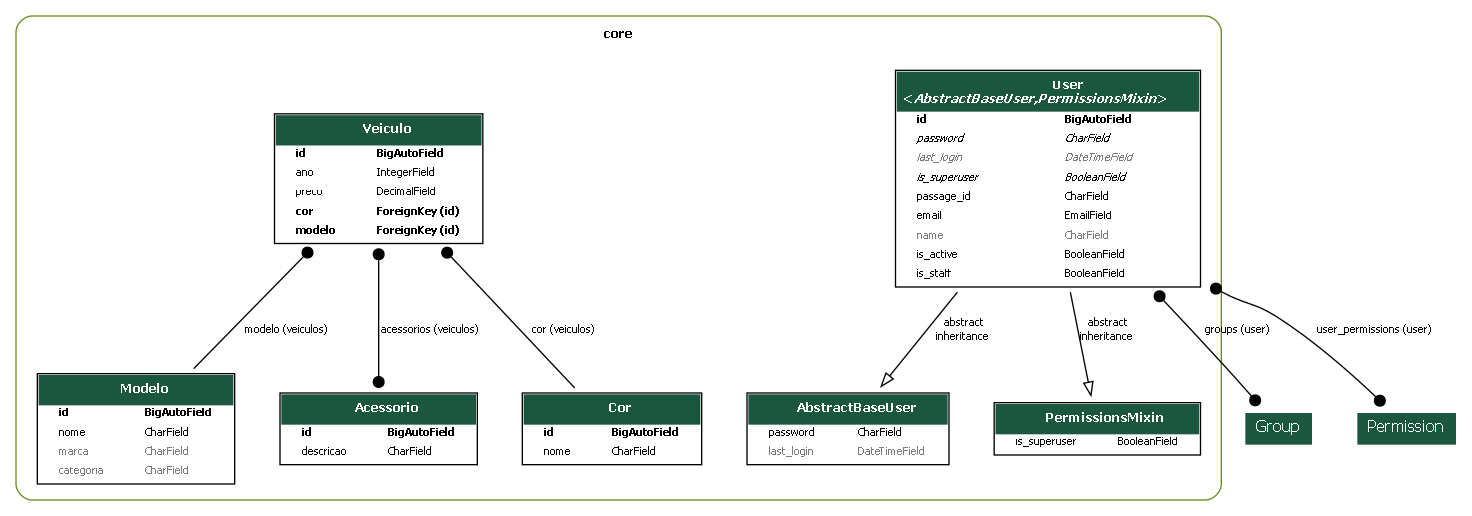
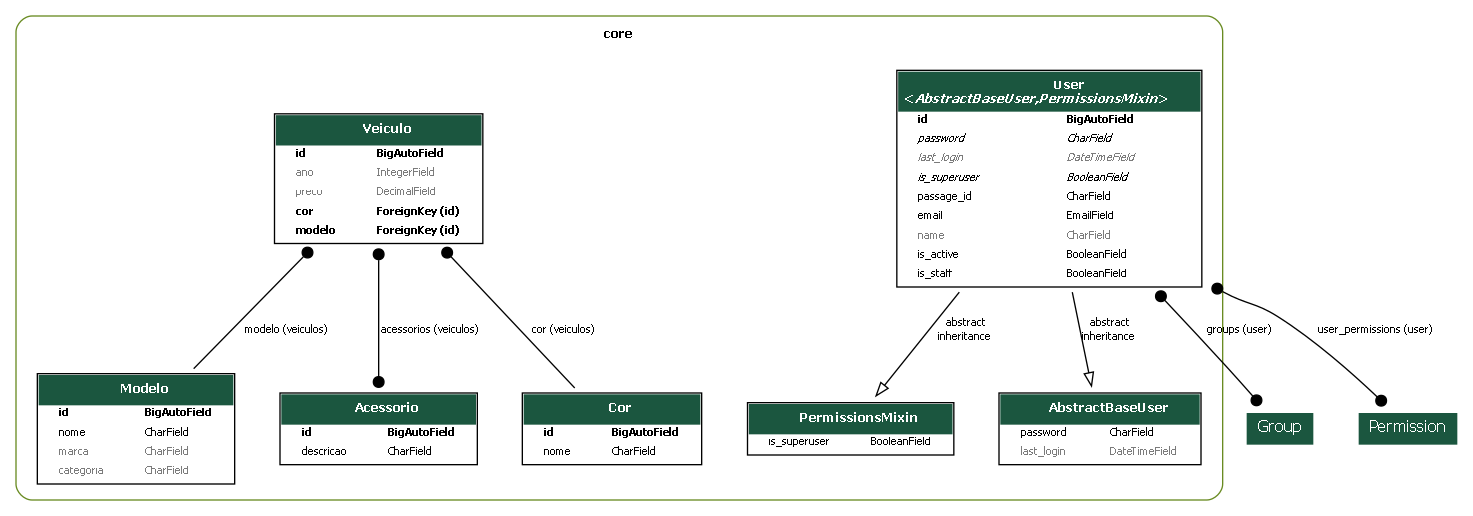
feat: Alterado configurações da tabela veiculo

diff --git a/core/migrations/0009_alter_cor_options_alter_veiculo_ano_and_more.py b/core/migrations/0009_alter_cor_options_alter_veiculo_ano_and_more.py
@@ -1,0 +1,27 @@
+# Generated by Django 5.1.7 on 2025-04-25 17:57
+
+from django.db import migrations, models
+
+
+class Migration(migrations.Migration):
+
+    dependencies = [
+        ('core', '0008_veiculo'),
+    ]
+
+    operations = [
+        migrations.AlterModelOptions(
+            name='cor',
+            options={'verbose_name': 'Cor', 'verbose_name_plural': 'Cores'},
+        ),
+        migrations.AlterField(
+            model_name='veiculo',
+            name='ano',
+            field=models.IntegerField(blank=True, default=0, null=True),
+        ),
+        migrations.AlterField(
+            model_name='veiculo',
+            name='preco',
+            field=models.DecimalField(blank=True, decimal_places=2, max_digits=10, null=True),
+        ),
+    ]
